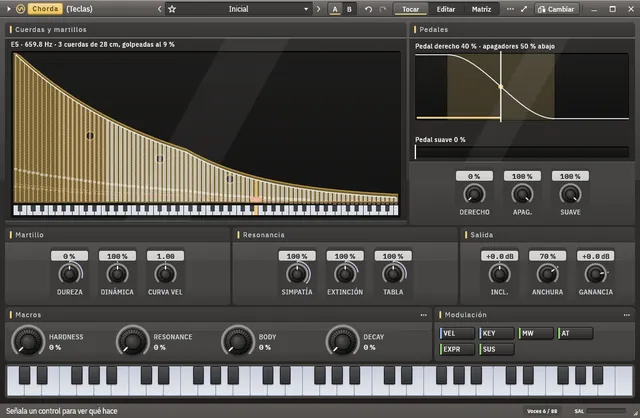
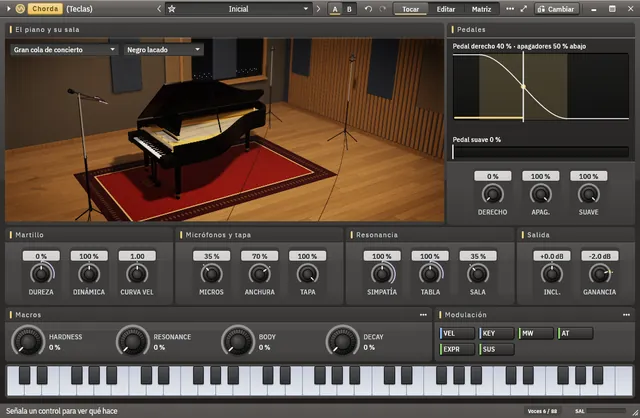
Site and README: Chorda's pictures show round 37's editor with its piano in the room
The site still showed Chorda as it was on 2026-11-03. Reshot, the Play view's scene was an
empty card: shoot_skins takes eight frames and the scene bakes on its worker. shoot_skins now
bakes it on the painting thread (scene::set_blocking, as the scene's own test does).

diff --git a/crates/cantus-ui/examples/shoot_skins.rs b/crates/cantus-ui/examples/shoot_skins.rs
@@ -361,6 +361,9 @@ fn main() {
     });
     let only: Vec<&String> = rest.collect();
     std::fs::create_dir_all(&dir).expect("create the output directory");
+    // Chorda's scene bakes on the painting thread here: a shot cannot wait for the worker,
+    // and without it the piano's picture is an empty card (round 38: the site showed one).
+    views::inst::chorda::scene::set_blocking(true);
     if flag("--gallery") {
         shoot_gallery(&dir);
         if only.is_empty() {
